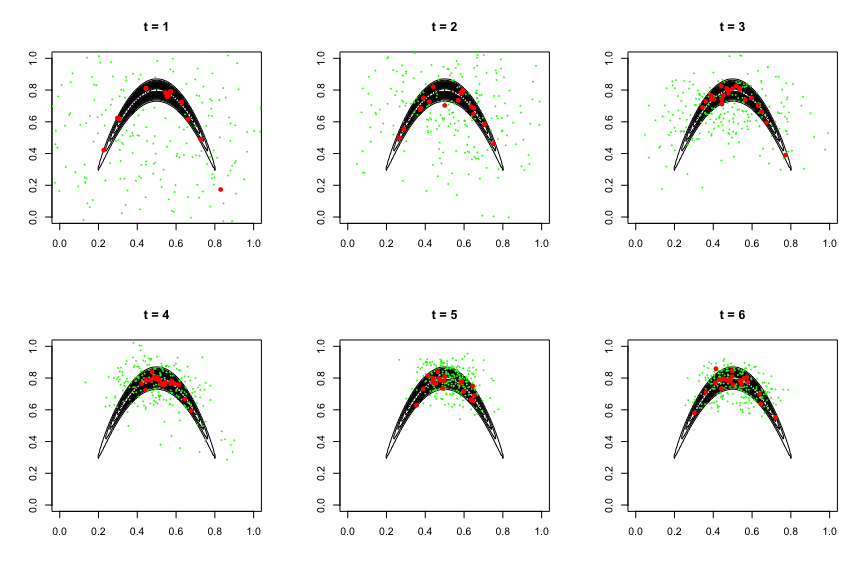
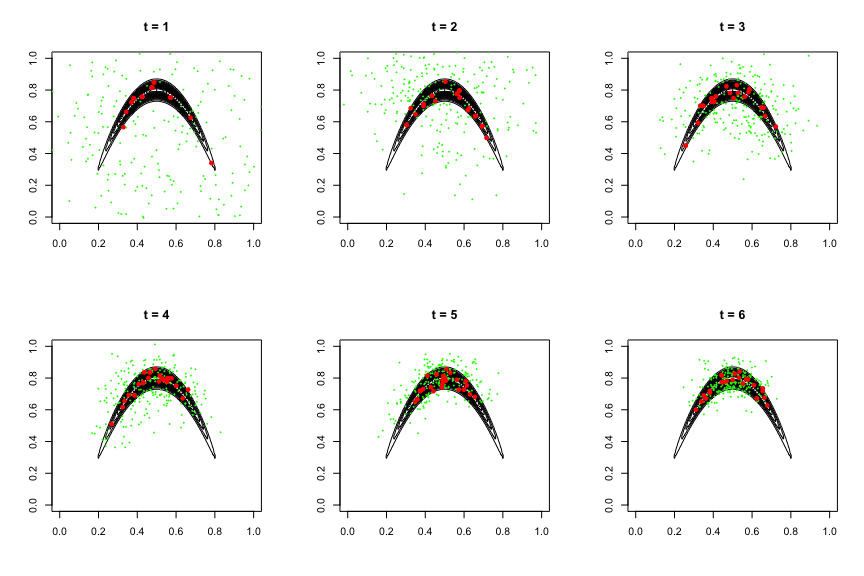
update README file

diff --git a/README.md b/README.md
@@ -1,4 +1,4 @@
-Improving PMC Using Support Points
+Population Quasi-Monte Carlo
 ================
 Chaofan (Bill) Huang
 
@@ -117,7 +117,7 @@ pmc.mn <- pmc(ini, logmixture, J, steps, sigma,
               sigma.adapt = adaptation, visualization = T)
 ```
 
-![](README_files/figure-gfm/pmc-mn-1.png)<!-- -->
+![](README_files/figure-gfm/pmc-mixture-mn-1.png)<!-- -->
 
 ``` r
 # log MSE of E[X] by standard PMC estimator
@@ -156,7 +156,7 @@ pmc.ss <- pmc(ini, logmixture, J, steps, sigma,
               sigma.adapt = adaptation, visualization = T)
 ```
 
-![](README_files/figure-gfm/pmc-ss-1.png)<!-- -->
+![](README_files/figure-gfm/pmc-mixture-ss-1.png)<!-- -->
 
 ``` r
 # log MSE of E[X] by standard PMC estimator
@@ -195,7 +195,7 @@ pmc.sp <- pmc(ini, logmixture, J, steps, sigma,
               sigma.adapt = adaptation, visualization = T)
 ```
 
-![](README_files/figure-gfm/pmc-sp1-1.png)<!-- -->
+![](README_files/figure-gfm/pmc-mixture-qmc-sp-1.png)<!-- -->
 
 ``` r
 # log MSE of E[X] by standard PMC estimator
@@ -234,35 +234,74 @@ pmc.sp <- pmc(ini, logmixture, J, steps, sigma,
               sigma.adapt = adaptation, visualization = T)
 ```
 
-![](README_files/figure-gfm/pmc-sp2-1.png)<!-- -->
+![](README_files/figure-gfm/pmc-mixture-sp-sp-1.png)<!-- -->
 
 ``` r
 # log MSE of E[X] by standard PMC estimator
 log(mean((pmc.sp$m.std - expectation)^2))
 ```
 
-    ## [1] -12.55829
+    ## [1] -13.29679
 
 ``` r
 # log MSE of E[X] by weighted PMC estimator
 log(mean((pmc.sp$m.wts - expectation)^2))
 ```
 
-    ## [1] -14.75212
+    ## [1] -13.3158
 
 ``` r
 # log MSE of Z by standard PMC estimator
 log((pmc.sp$z.std - Z)^2)
 ```
 
-    ## [1] -7.773414
+    ## [1] -5.120851
 
 ``` r
 # log MSE of Z by weighted PMC estimator
 log((pmc.sp$z.wts - Z)^2)
 ```
 
-    ## [1] -11.68183
+    ## [1] -7.22959
+
+### PQMC (MSP + SP)
+
+``` r
+layout(matrix(c(1:6), nrow = 2, byrow = T))
+pmc.sp <- pmc(ini, logmixture, J, steps, sigma, 
+              sample = "msp", resample = "sp",
+              sigma.adapt = adaptation, visualization = T)
+```
+
+![](README_files/figure-gfm/pmc-mixture-msp-sp-1.png)<!-- -->
+
+``` r
+# log MSE of E[X] by standard PMC estimator
+log(mean((pmc.sp$m.std - expectation)^2))
+```
+
+    ## [1] -11.08229
+
+``` r
+# log MSE of E[X] by weighted PMC estimator
+log(mean((pmc.sp$m.wts - expectation)^2))
+```
+
+    ## [1] -14.89853
+
+``` r
+# log MSE of Z by standard PMC estimator
+log((pmc.sp$z.std - Z)^2)
+```
+
+    ## [1] -6.828358
+
+``` r
+# log MSE of Z by weighted PMC estimator
+log((pmc.sp$z.wts - Z)^2)
+```
+
+    ## [1] -12.13423
 
 ## PQMC vs. PMC on Banana Shape Distribution
 
@@ -295,7 +334,6 @@ unit square. Adaptation for covariance is applied. Here follows the
 parameter setting.
 
 ``` r
-expectation <- c(0.5, 0.7163) # computed using grid approach
 p <- 2 # dimensions
 N <- 25 # number of propopsals
 J <- 10 # number of samples drawn from each proposal
@@ -316,20 +354,6 @@ pmc.mn <- pmc(ini, logbanana, J, steps, sigma,
 
 ![](README_files/figure-gfm/pmc-banana-mn-1.png)<!-- -->
 
-``` r
-# log MSE of E[X] by standard PMC estimator
-log(mean((pmc.mn$m.std - expectation)^2))
-```
-
-    ## [1] -7.550424
-
-``` r
-# log MSE of E[X] by weighted PMC estimator
-log(mean((pmc.mn$m.wts - expectation)^2))
-```
-
-    ## [1] -7.587697
-
 ### PMC (Random + Systematic)
 
 ``` r
@@ -341,20 +365,6 @@ pmc.ss <- pmc(ini, logbanana, J, steps, sigma,
 
 ![](README_files/figure-gfm/pmc-banana-ss-1.png)<!-- -->
 
-``` r
-# log MSE of E[X] by standard PMC estimator
-log(mean((pmc.ss$m.std - expectation)^2))
-```
-
-    ## [1] -8.757924
-
-``` r
-# log MSE of E[X] by weighted PMC estimator
-log(mean((pmc.ss$m.wts - expectation)^2))
-```
-
-    ## [1] -8.646932
-
 ### PQMC (QMC + SP)
 
 ``` r
@@ -364,21 +374,7 @@ pmc.sp <- pmc(ini, logbanana, J, steps, sigma,
               sigma.adapt = adaptation, visualization = T)
 ```
 
-![](README_files/figure-gfm/pmc-banana-sp1-1.png)<!-- -->
-
-``` r
-# log MSE of E[X] by standard PMC estimator
-log(mean((pmc.sp$m.std - expectation)^2))
-```
-
-    ## [1] -8.79879
-
-``` r
-# log MSE of E[X] by weighted PMC estimator
-log(mean((pmc.sp$m.wts - expectation)^2))
-```
-
-    ## [1] -9.261498
+![](README_files/figure-gfm/pmc-banana-qmc-sp-1.png)<!-- -->
 
 ### PQMC (SP + SP)
 
@@ -389,18 +385,15 @@ pmc.sp <- pmc(ini, logbanana, J, steps, sigma,
               sigma.adapt = adaptation, visualization = T)
 ```
 
-![](README_files/figure-gfm/pmc-banana-sp2-1.png)<!-- -->
+![](README_files/figure-gfm/pmc-banana-sp-sp-1.png)<!-- -->
+
+### PQMC (MSP + SP)
 
 ``` r
-# log MSE of E[X] by standard PMC estimator
-log(mean((pmc.sp$m.std - expectation)^2))
+layout(matrix(c(1:6), nrow = 2, byrow = T))
+pmc.sp <- pmc(ini, logbanana, J, steps, sigma, 
+              sample = "msp", resample = "sp",
+              sigma.adapt = adaptation, visualization = T)
 ```
 
-    ## [1] -9.644191
-
-``` r
-# log MSE of E[X] by weighted PMC estimator
-log(mean((pmc.sp$m.wts - expectation)^2))
-```
-
-    ## [1] -9.765651
+![](README_files/figure-gfm/pmc-banana-msp-sp-1.png)<!-- -->
